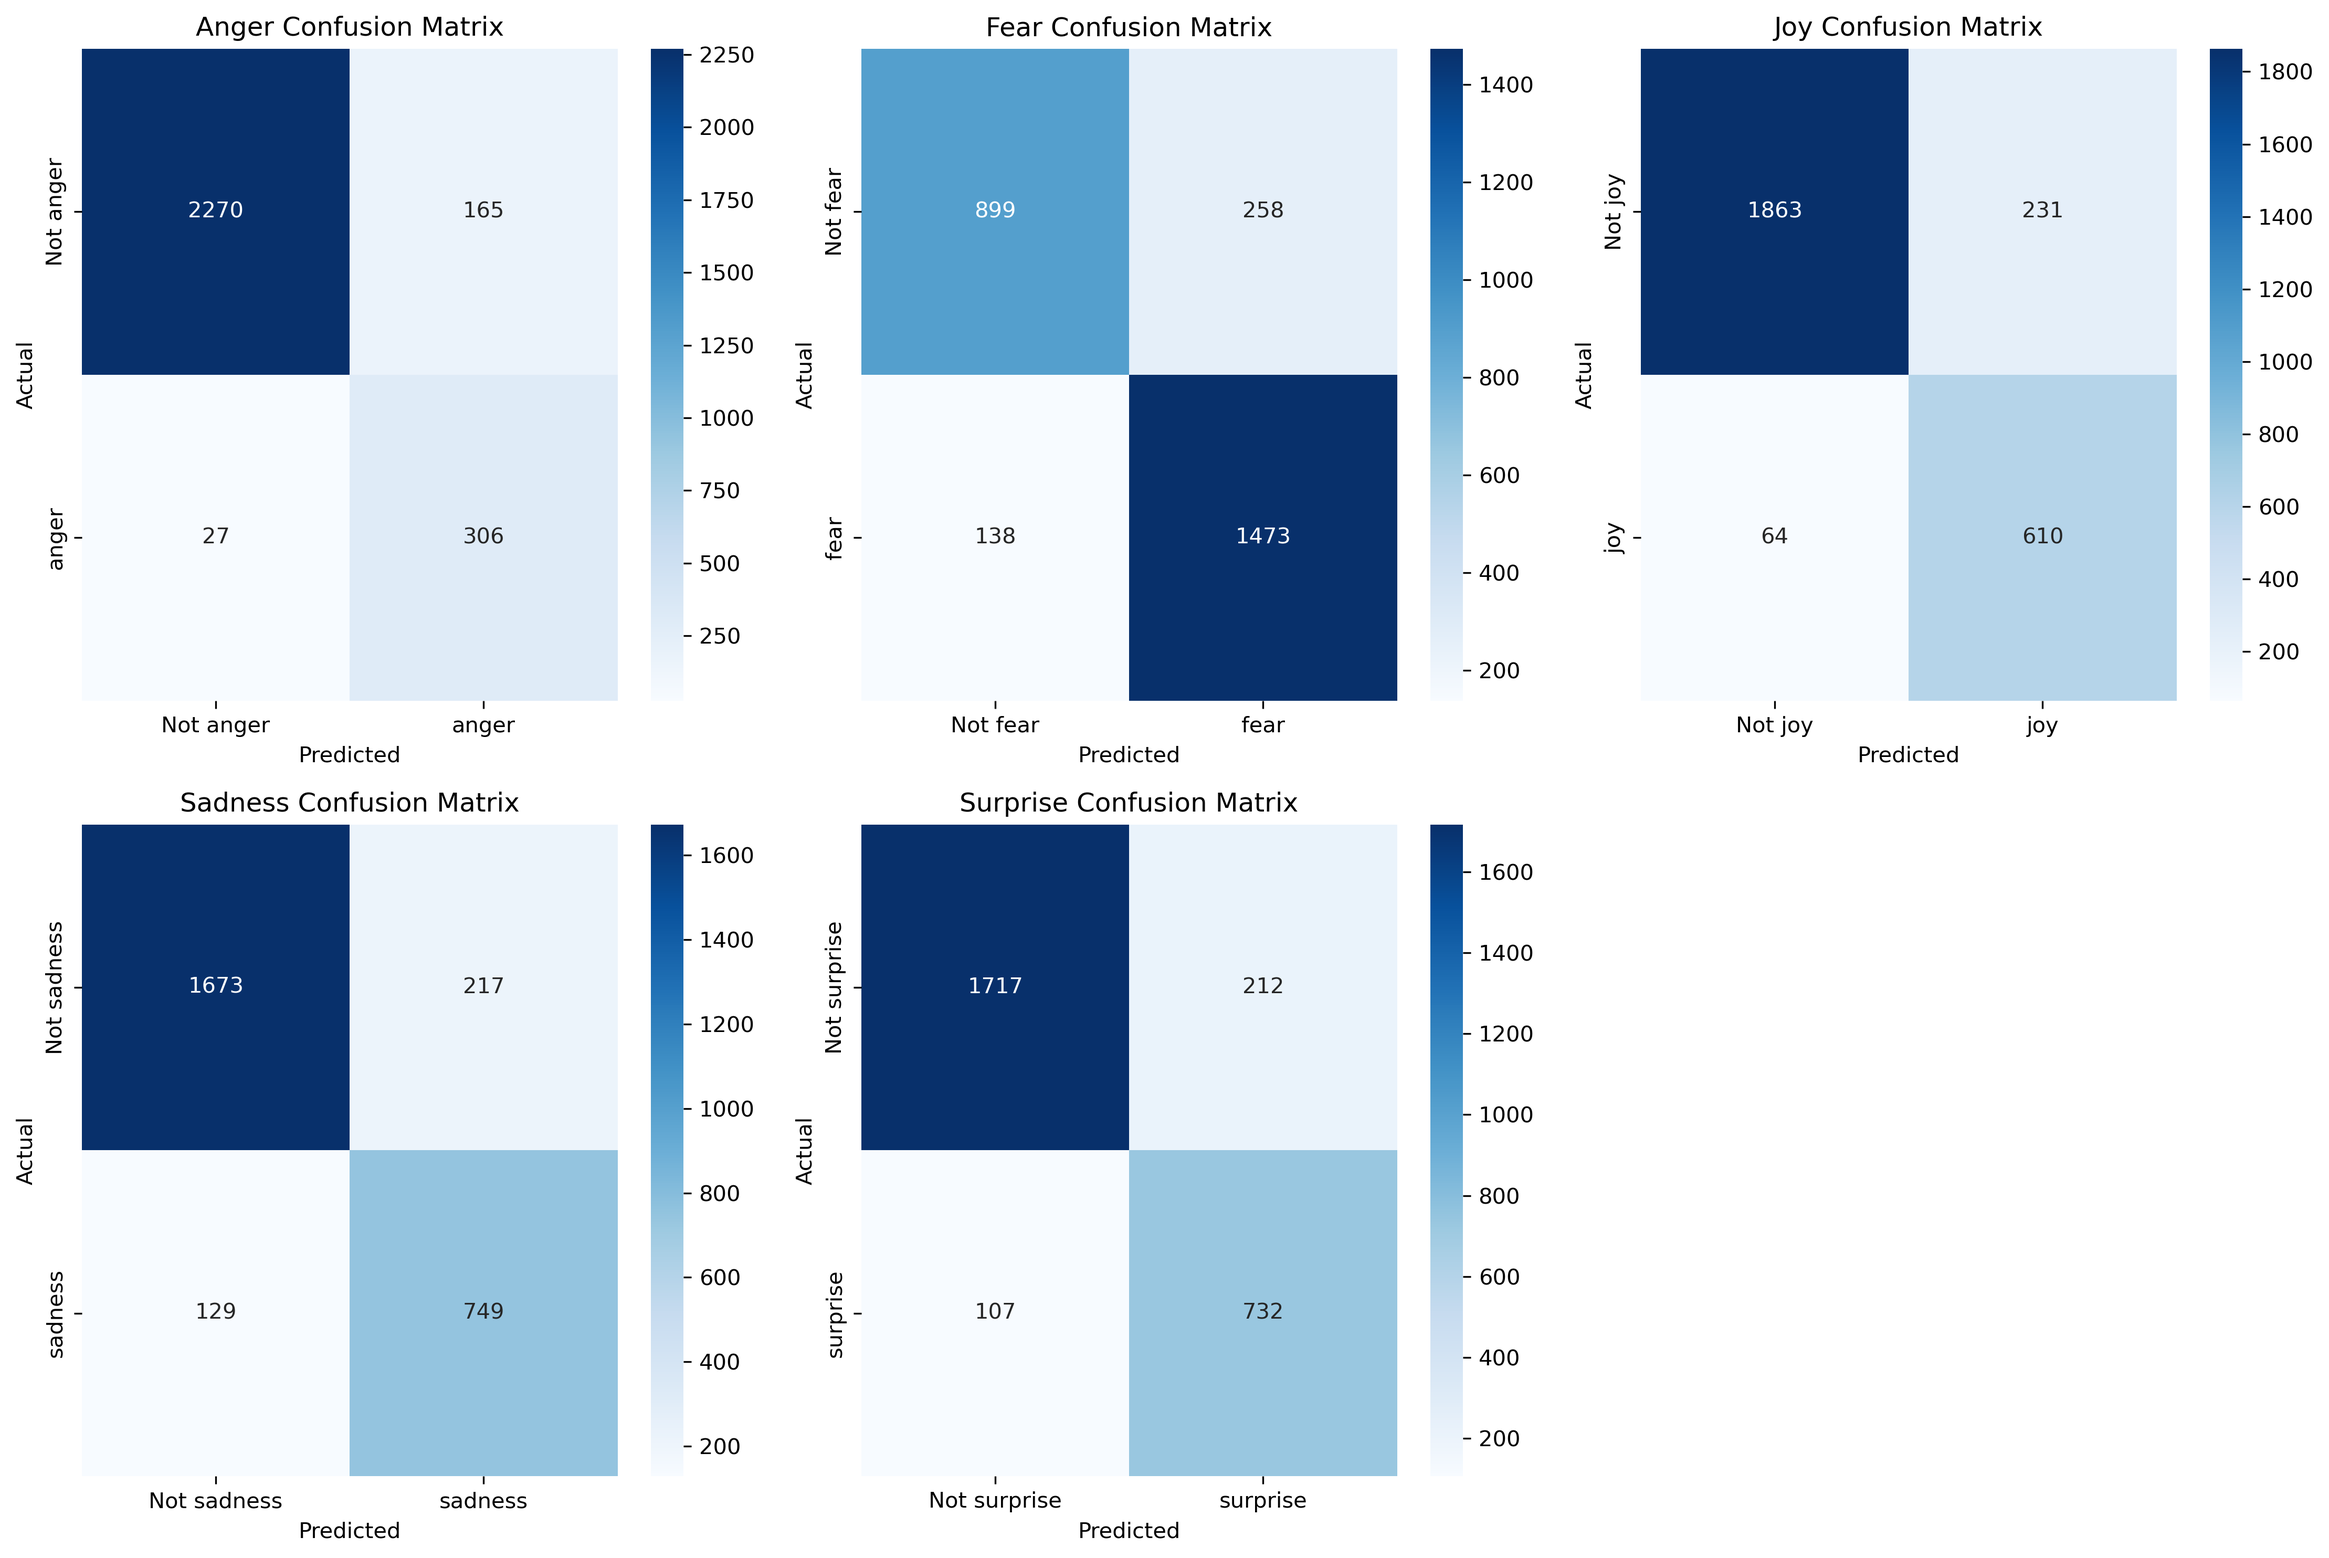
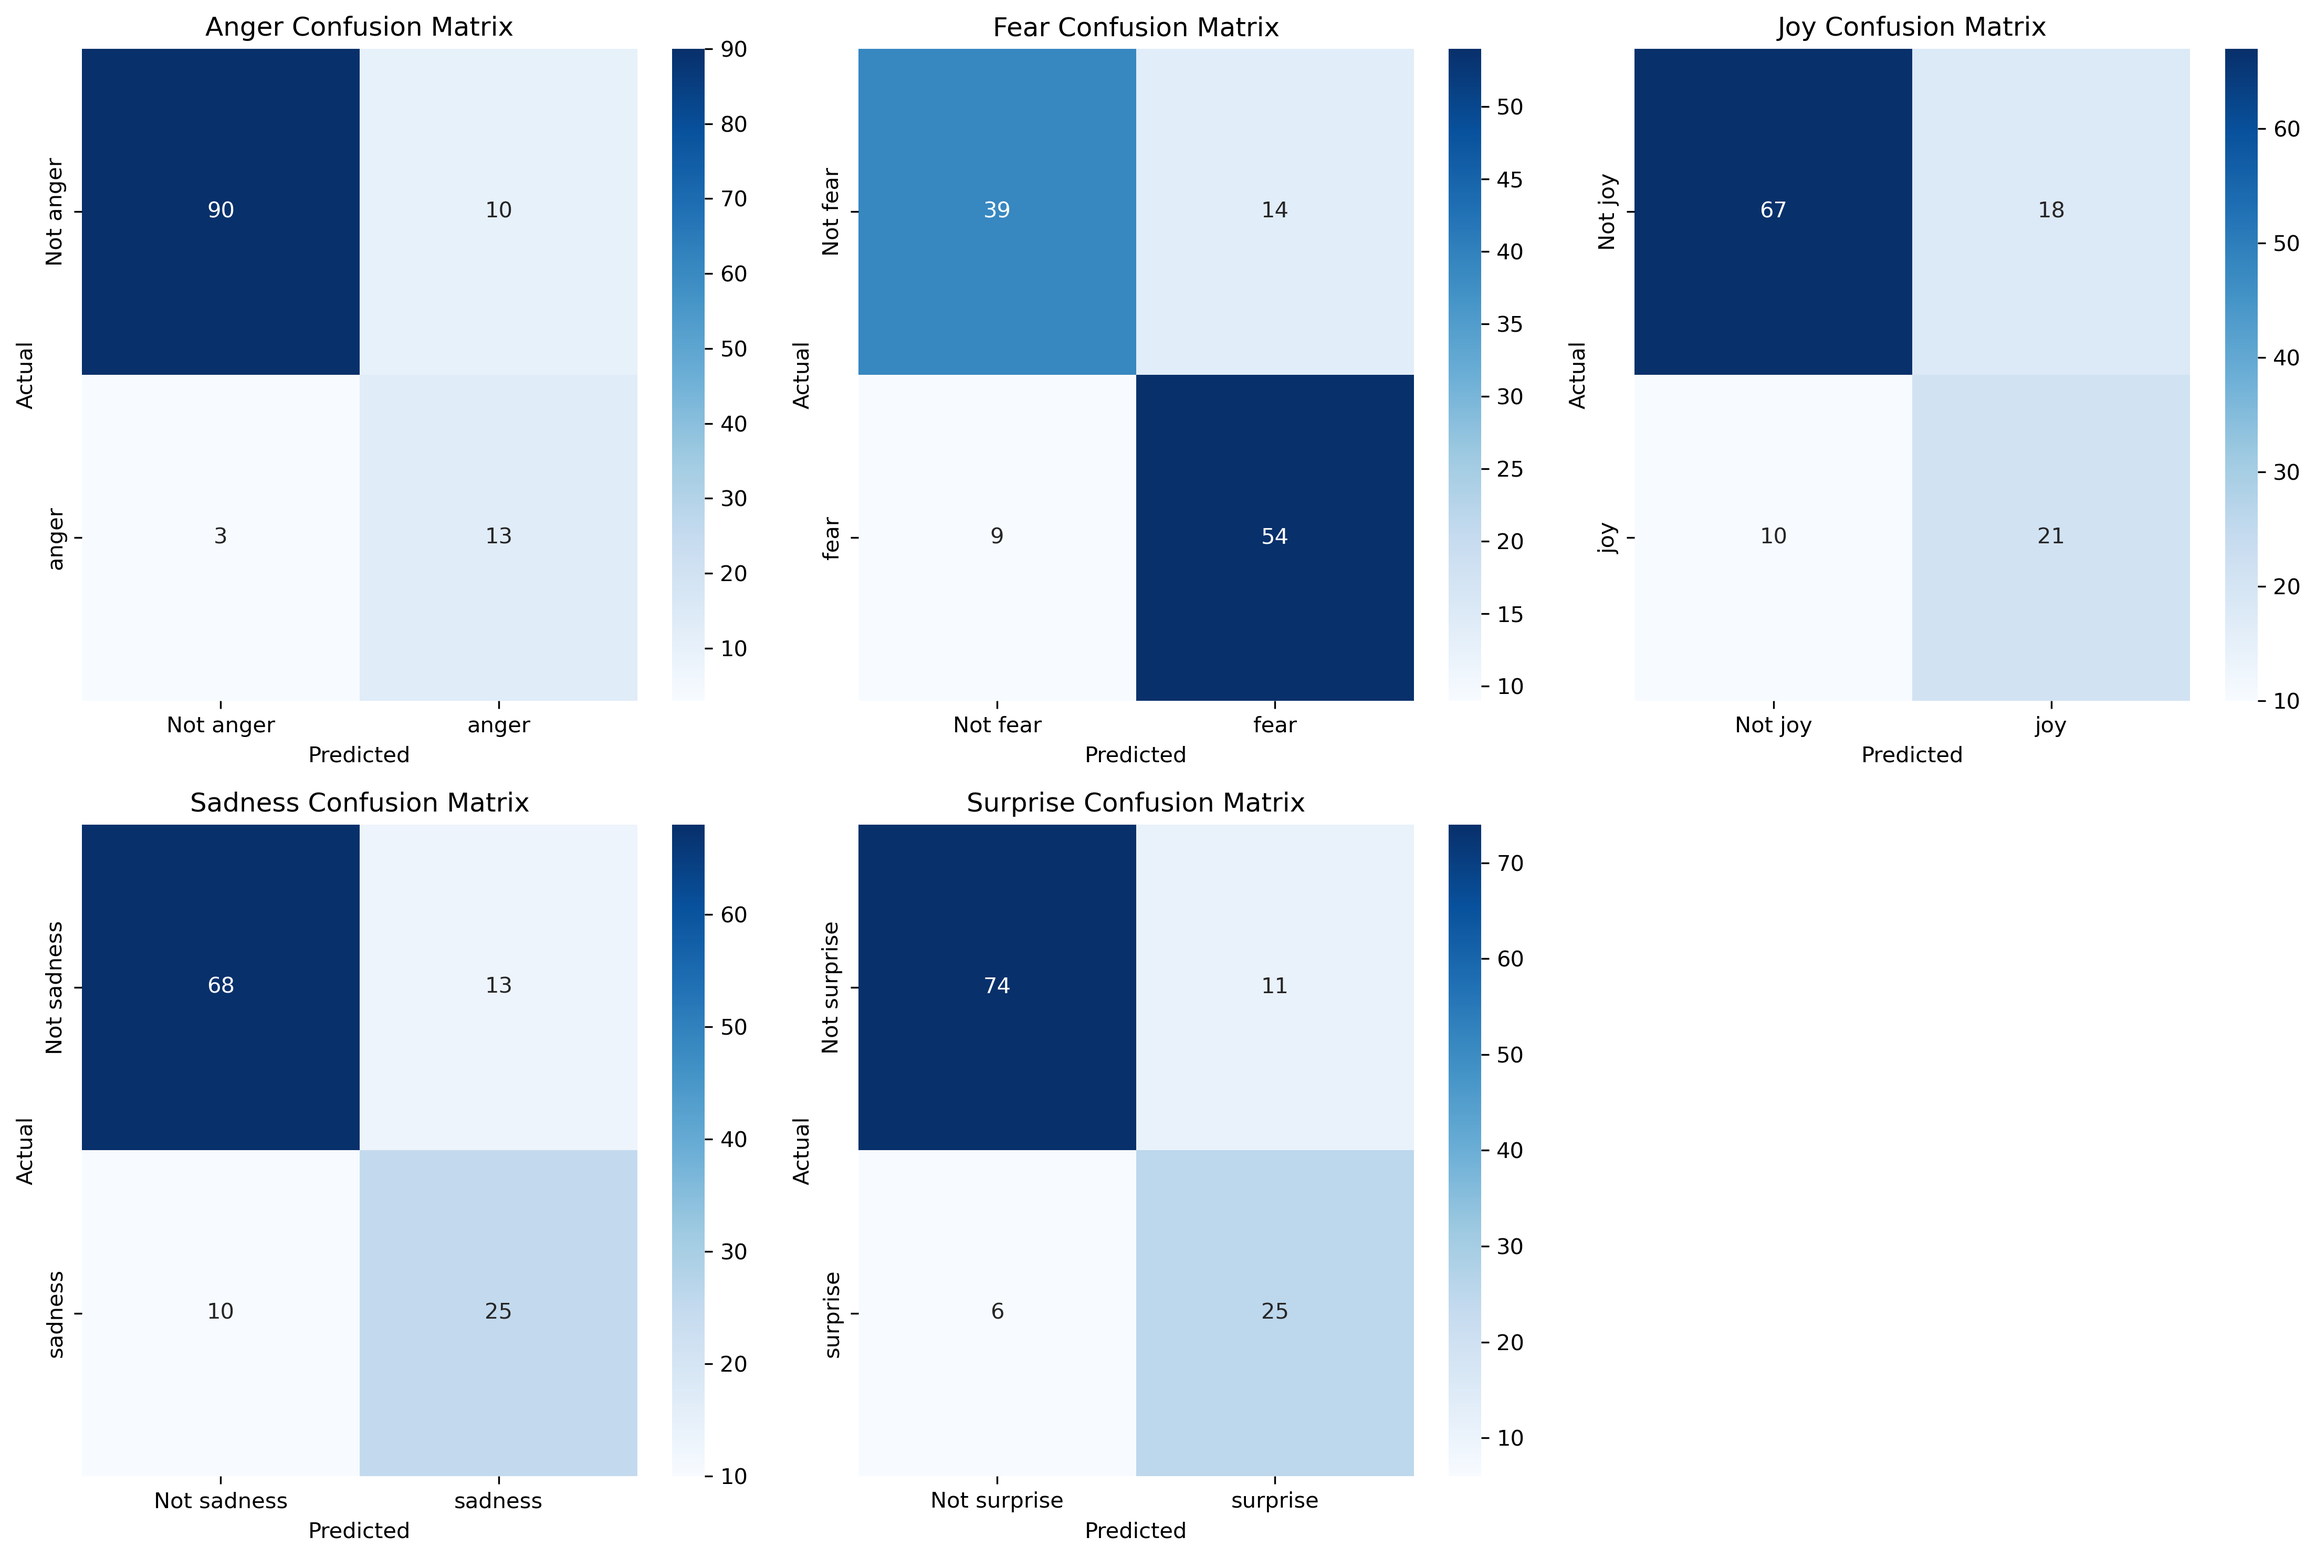
added test set and results

diff --git a/eval.py b/eval.py
@@ -341,7 +341,7 @@ if __name__ == "__main__":
     # Example usage
     try:
         # Replace with your actual test file path
-        csv_file_path = "data/emotions.csv"
+        csv_file_path = "data/track-a-test.csv"
         
         # Run complete evaluation
         results = evaluate_model(csv_file_path)
